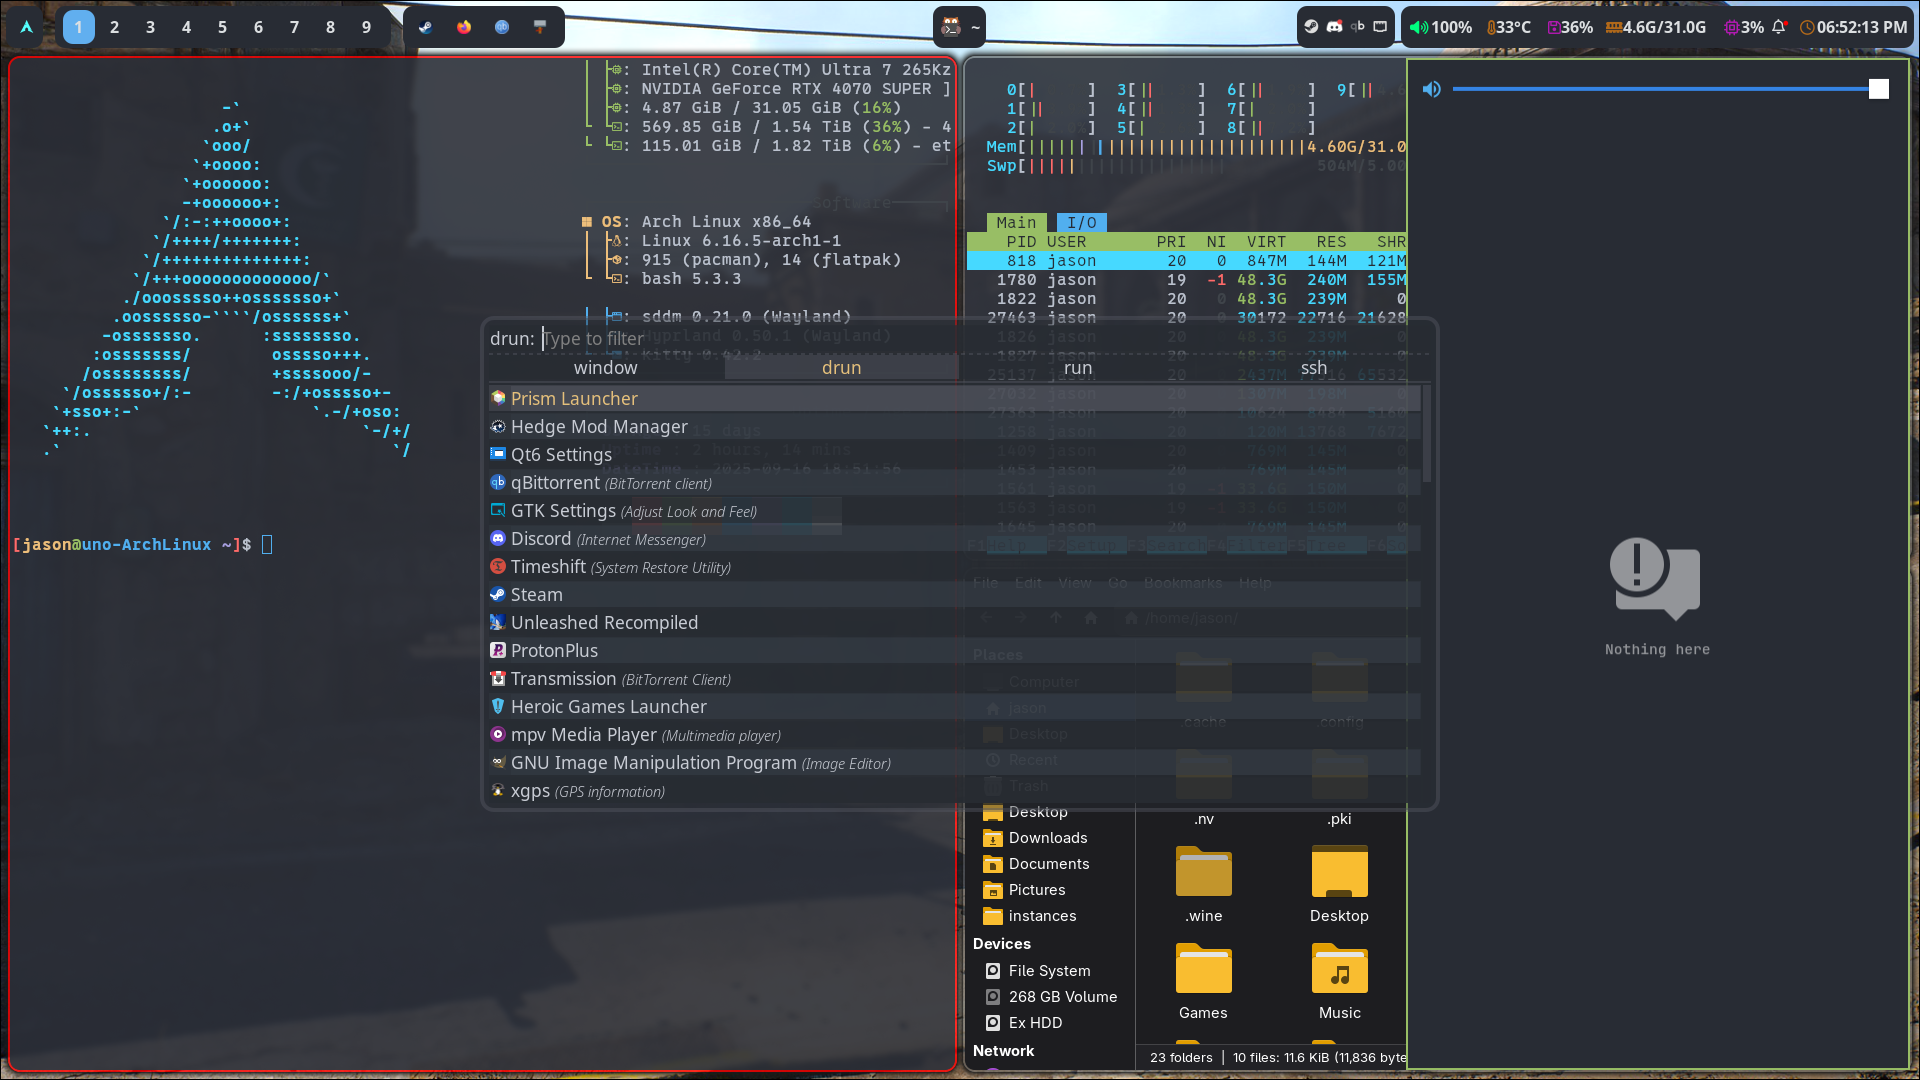
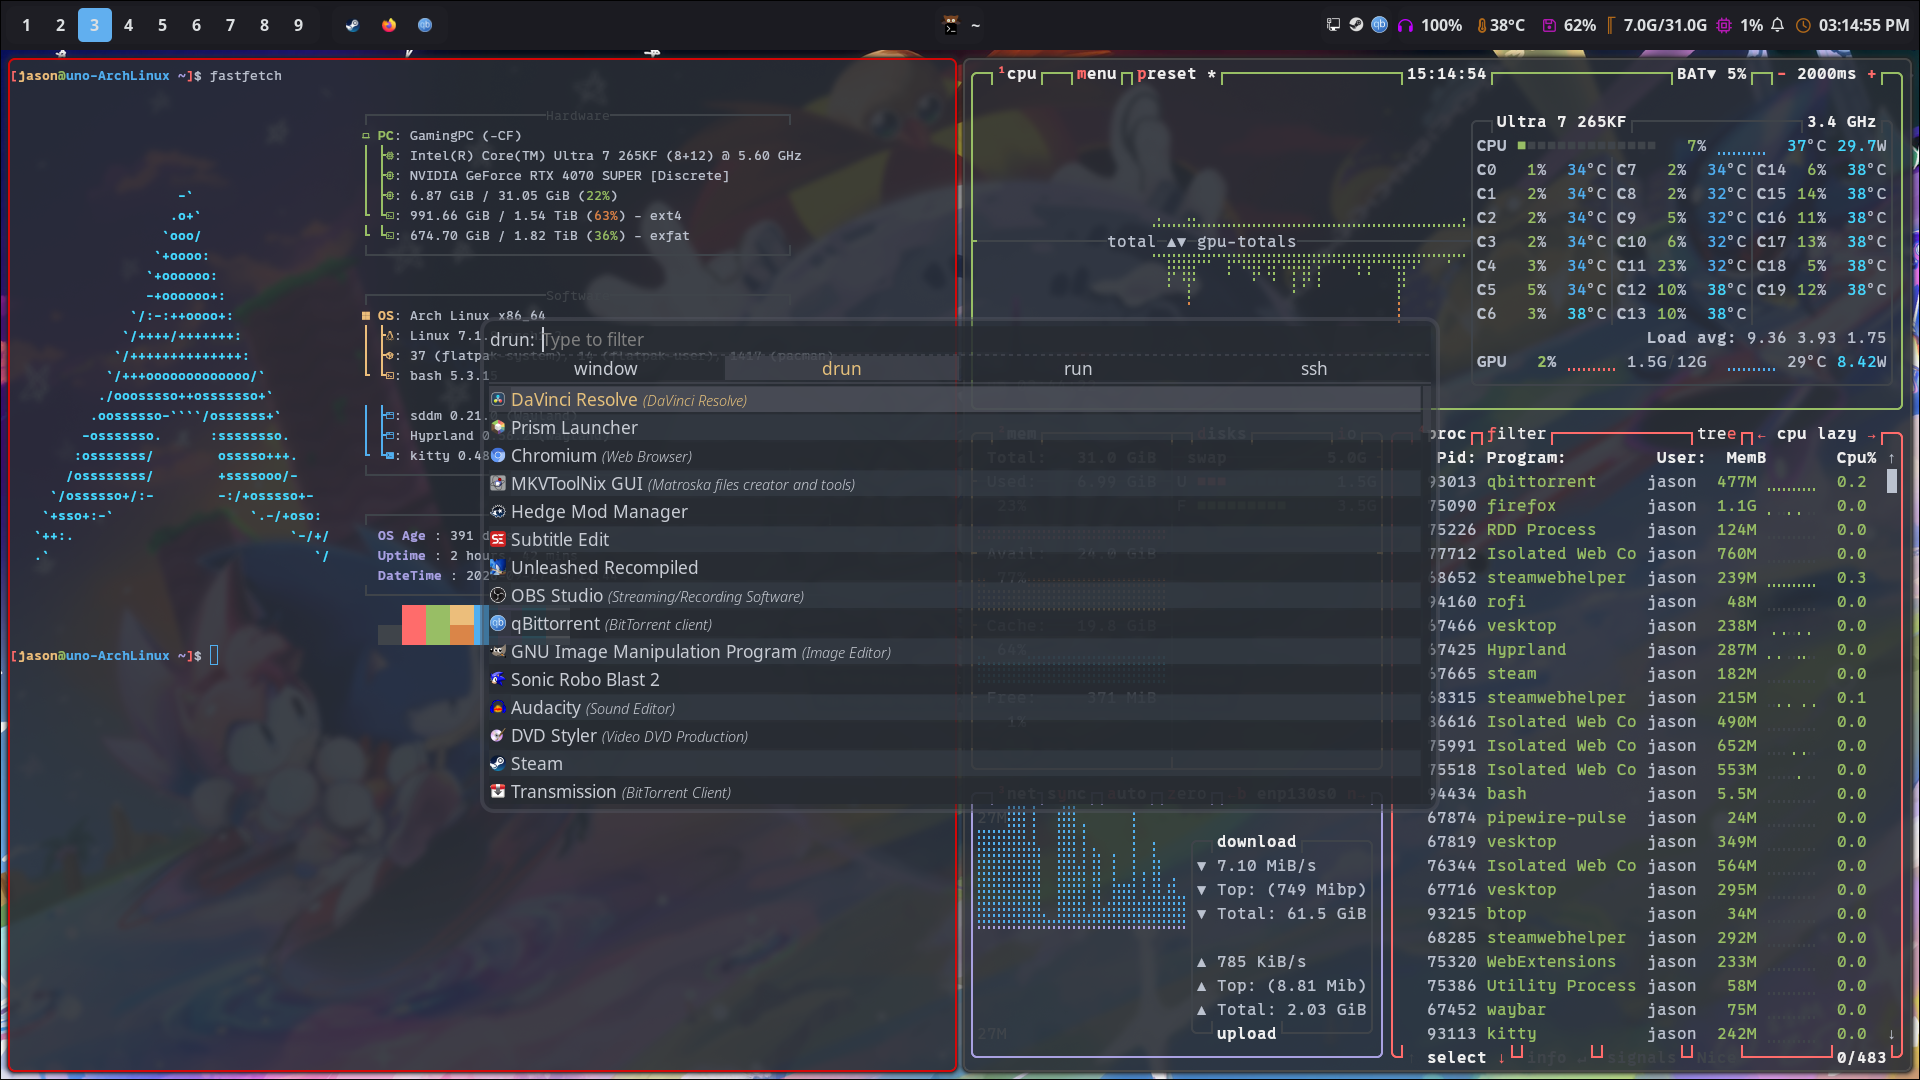
Updated README

Changed region(s): [[0.0, 0.0, 1.0, 1.0]]

diff --git a/README.md b/README.md
@@ -1,12 +1,11 @@
 # dotfiles 2.0
 
 ![](/screenshot.png)
+Wallpaper by @SSM_Uug_Naa on Twitter
 
-These are my brand new dotfiles after switching back to linux after switching back to windows for 6 months (windows->linux->windows->linux)
+These are the dotfiles I run on my normal system
 
 I am using Hyprland for these dotfiles
-
-YOU NEED TO USE [split-monitor-workspaces](https://github.com/Duckonaut/split-monitor-workspaces) plugin!
 
 # Programs Used
 
@@ -20,3 +19,19 @@ YOU NEED TO USE [split-monitor-workspaces](https://github.com/Duckonaut/split-mo
 - Rofi
 - Thunar
 - Swww
+
+# Wallpaper Origins
+
+- aether.png (![@benii22184786 on Twitter](https://x.com/benii22184786/status/1915806988996354173))
+- bliss.jpg (Couldn't find Origin)
+- cherry1.jpeg (Stock Imagery)
+- dust2.png (Couldn't use reverse image search)
+- eggman1.webp (![Sonic Channel](https://sonic.sega.jp/SonicChannel/special/sidestory/sonicpict/20260525_009294/))
+- mesa.jpg (Prob Stock Imagery, POP_OS Wallpaper)
+- neon_wave.png (Couldn't find)
+- shadow1.jpg (![Sonic Channel](https://sonic.sega.jp/SonicChannel/special/sidestory/sonicpict/20210930_008510/))
+- silver1.webp (![Sonic Channel](https://sonic.sega.jp/SonicChannel/special/sidestory/sonicpict/20260220_009226/))
+- sonic1.png (![Sonic Channel](https://sonic.sega.jp/SonicChannel/special/sidestory/sonicpict/20250529_008946/))
+- sonic2-mephiles.png (![Sonic Channel](https://sonic.sega.jp/SonicChannel/special/sidestory/sonicpict/20250623_008970/))
+- sonic-cd.jpg (![@SSM_Uug_Naa on Twitter](https://x.com/SSM_Uug_Naa/status/2104116175445922173))
+- tails1.webp (![Sonic Channel](https://sonic.sega.jp/SonicChannel/special/sidestory/sonicpict/20260330_009249/))
